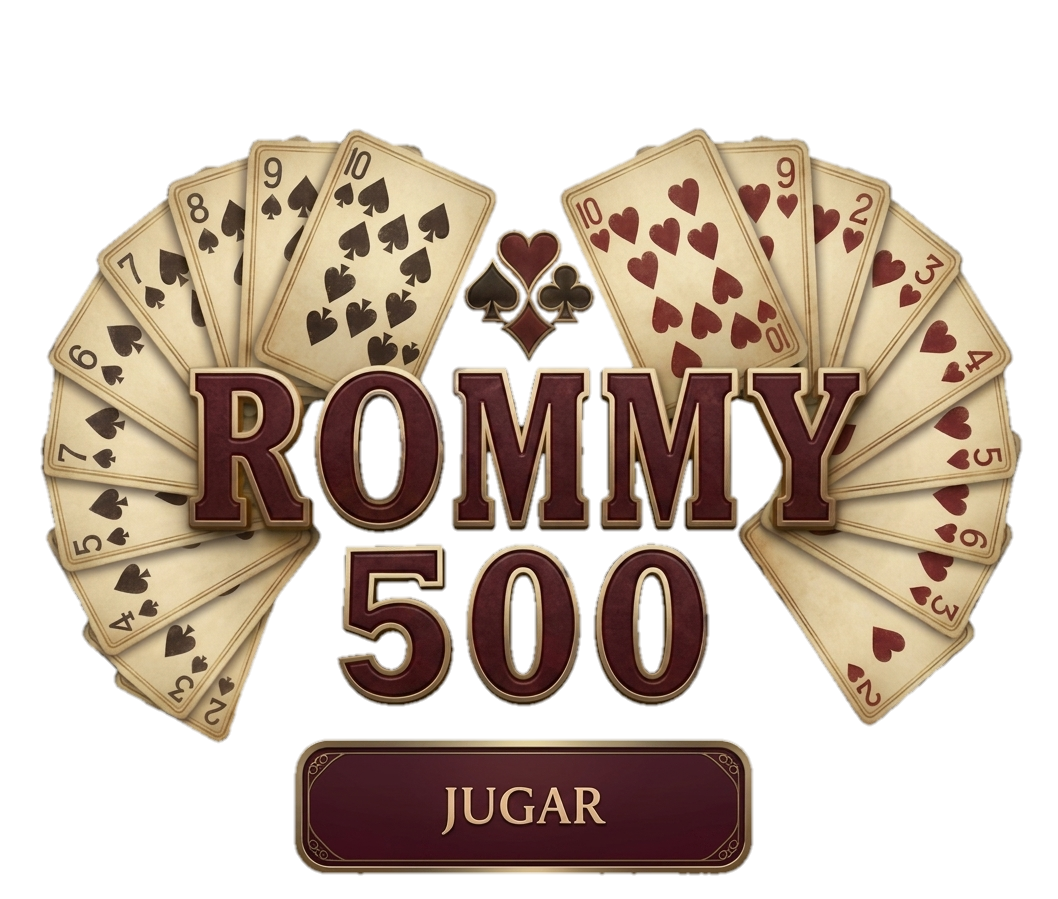
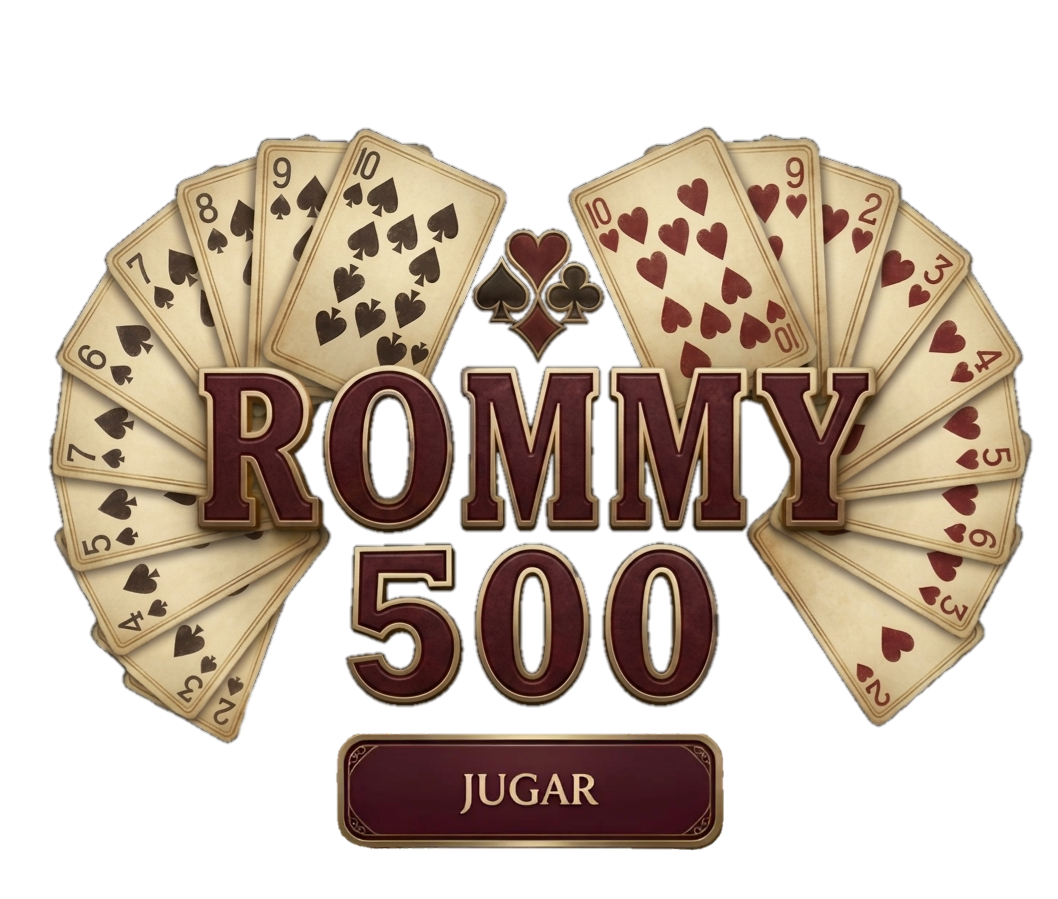
Actualizacion detalles Jhadiel

Changed region(s): [[0.0312, 0.1246, 0.9981, 0.9967]]

diff --git a/ventana.py b/ventana.py
@@ -262,7 +262,7 @@ class Ventana(
 
             img = pygame.image.load(ruta_img).convert_alpha()
 
-            escala = 0.85  # ajusta este número
+            escala = 0.75  # ajusta este número
             nuevo_ancho = int(img.get_width() * escala)
             nuevo_alto = int(img.get_height() * escala)
 
@@ -270,7 +270,7 @@ class Ventana(
 
             boton_jugar.rect.width = nuevo_ancho
             boton_jugar.rect.height = nuevo_alto
-            boton_jugar.rect.center = (x + ancho // 2, y + alto // 2)
+            boton_jugar.rect.center = (x + ancho // 2, y + alto // 2 - 30)
 
             boton_jugar.superficie_texto = img
             boton_jugar.rect_texto = img.get_rect(center=boton_jugar.rect.center)

diff --git a/recursos_graficos/menus_core/_menu_inicio_mixin.py b/recursos_graficos/menus_core/_menu_inicio_mixin.py
@@ -88,11 +88,11 @@ class MenuInicioMixin:
         self.crear_boton_atras_menu_inicio(menu_inicio)
         
         # Agregar logo
-        escala_logo = 0.65 
+        escala_logo = 0.65
         x_centro = (constantes.ANCHO_MENU_I - self.logo_rummy.get_width()) // 2
         posicion_logo = (
             x_centro - 63,
-            int(constantes.ALTO_MENU_I * 0.18)
+            int(constantes.ALTO_MENU_I * 0.10)
         )
         
         menu_inicio.agregar_imagen(self.logo_rummy, posicion_logo, escala_logo)
